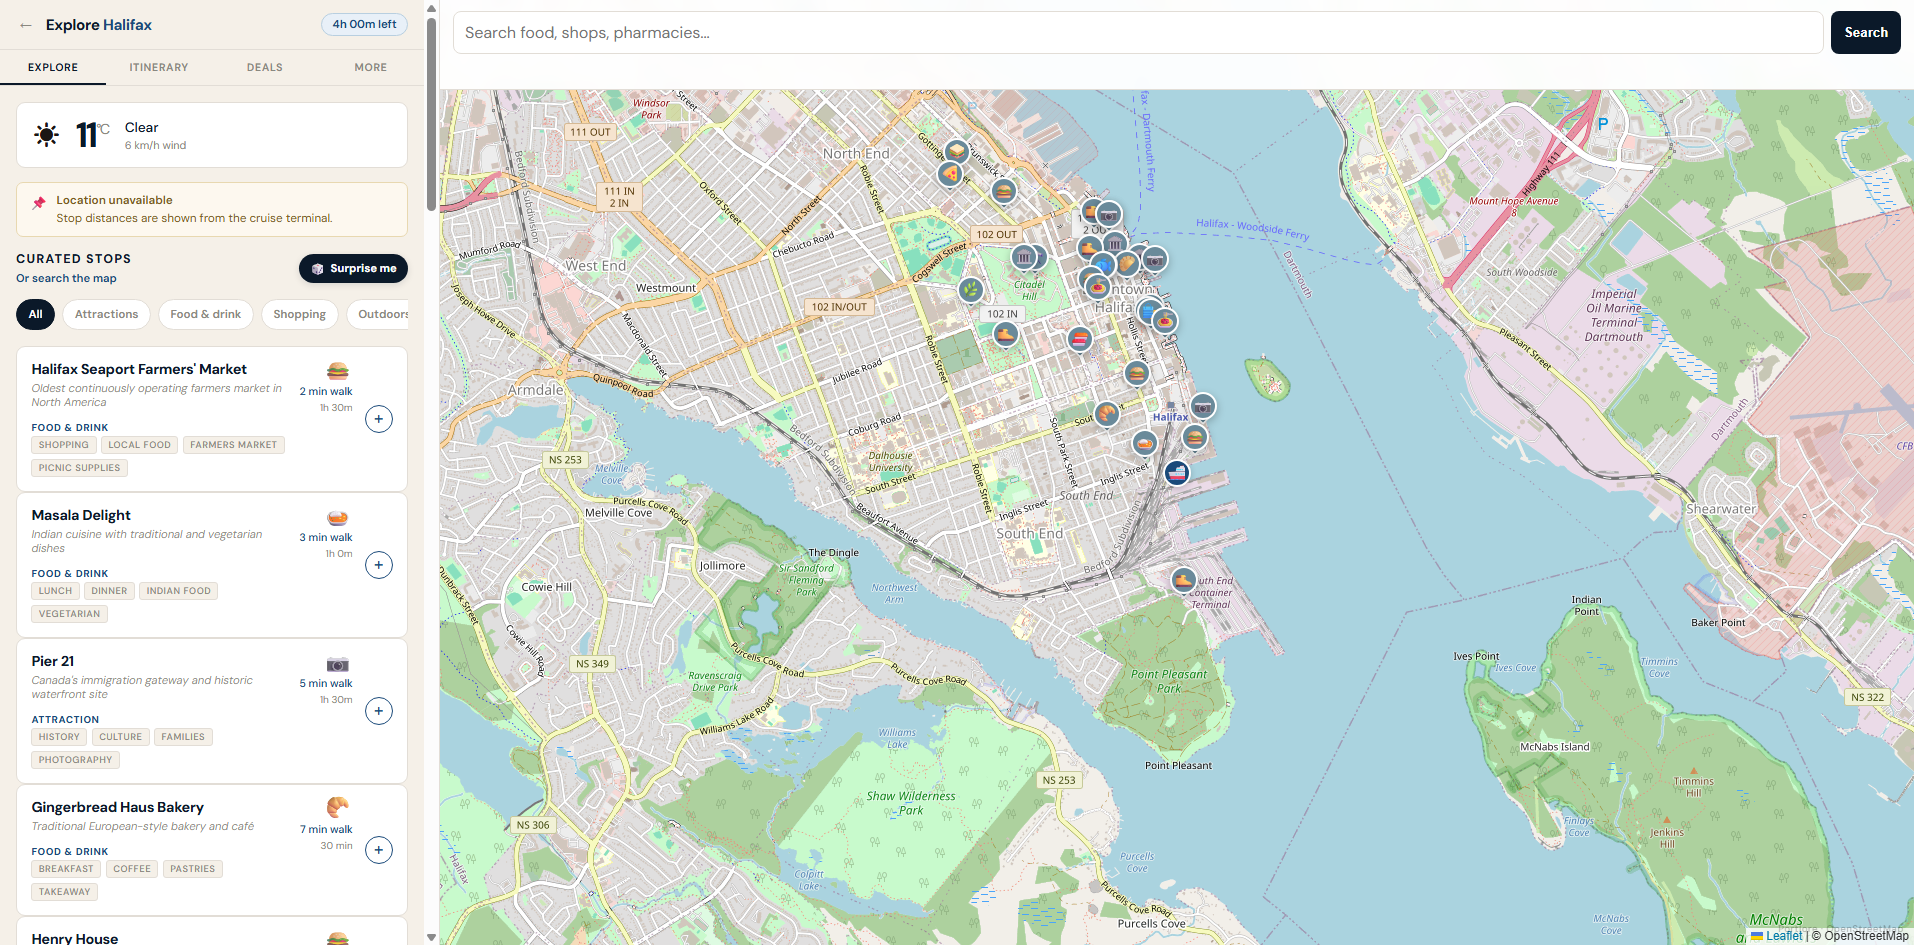
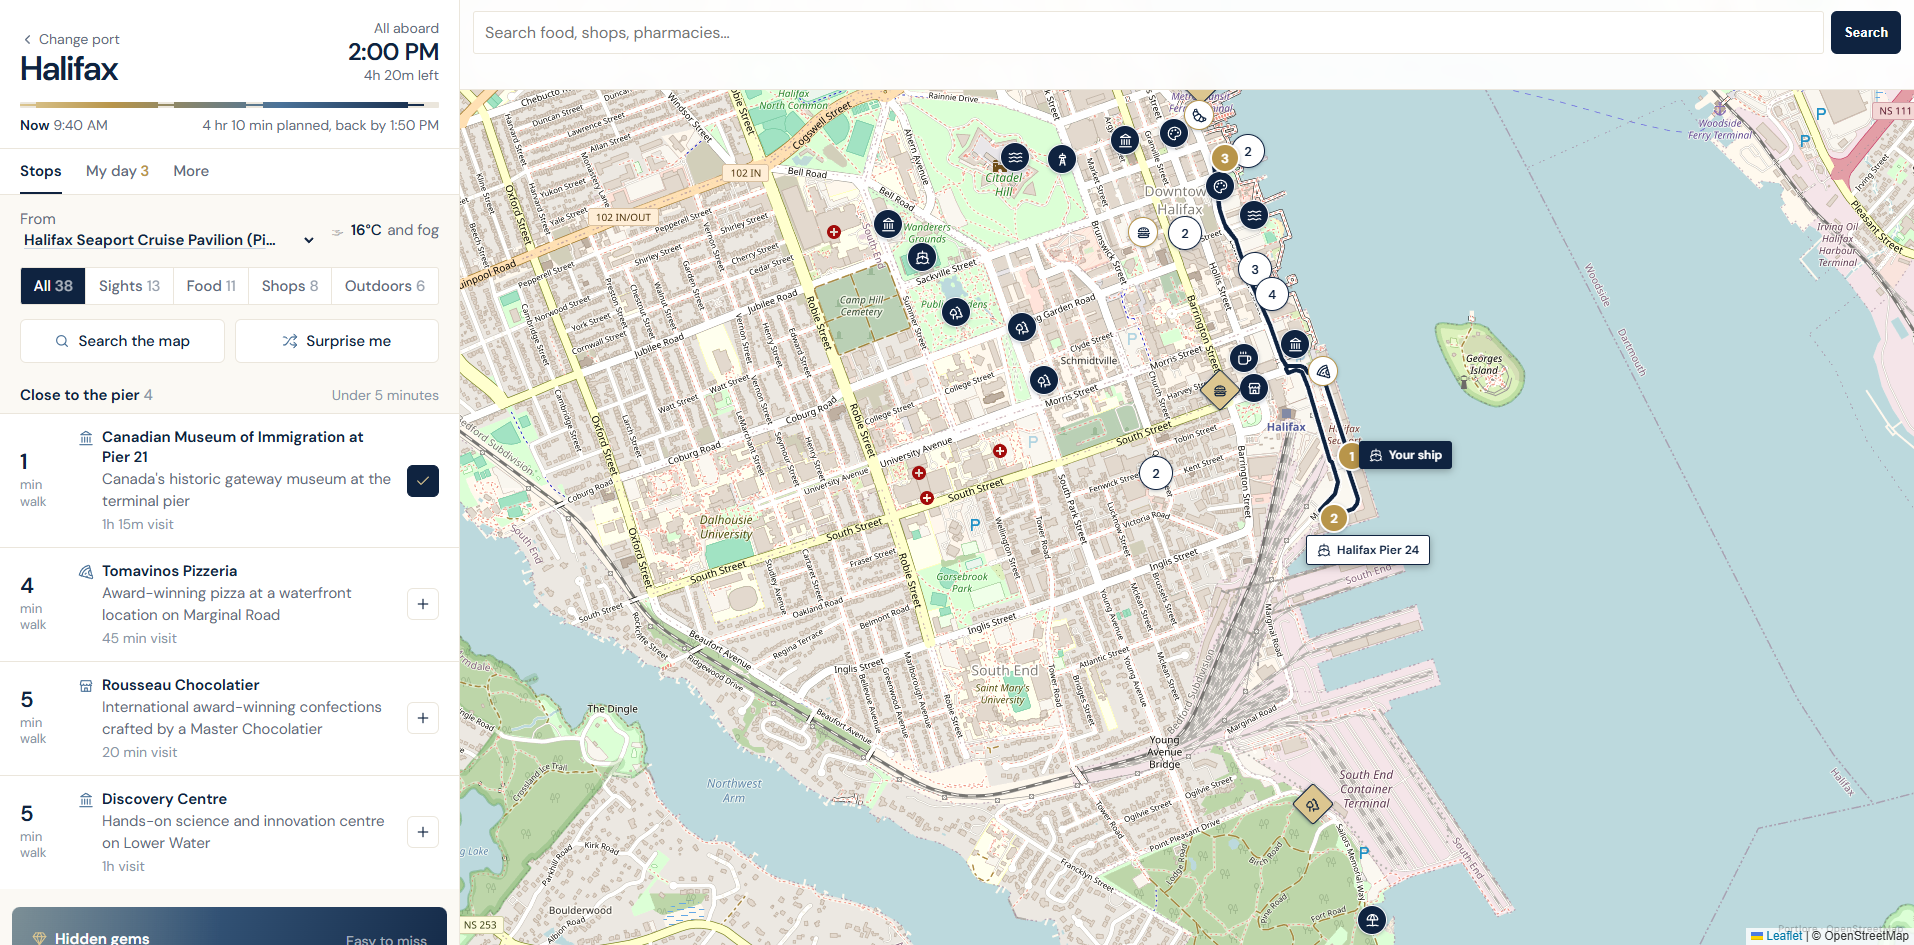
Refresh Portlore screenshots and project colours
- The Portlore galleries now show the redesigned app, plus a port page on
  desktop and mobile.
- Each project box now uses a gradient in its app's own colours.
- The Portlore stack now lists OSRM, Wikipedia, and Gemini.

diff --git a/assets/css/styles.css b/assets/css/styles.css
@@ -1,4 +1,4 @@
-*{box-sizing:border-box;margin:0;padding:0}:root{--bg:#f4f3ef;--ink:#18181b;--muted:#66666f;--line:#d8d6d1;--blue:#2459d3;--sans:Inter,ui-sans-serif,system-ui,-apple-system,BlinkMacSystemFont,"Segoe UI",sans-serif}html{scroll-behavior:smooth}body{background:var(--bg);color:var(--ink);font-family:var(--sans);-webkit-font-smoothing:antialiased}a{color:inherit;text-decoration:none}a:focus-visible,button:focus-visible{outline:2px solid var(--blue);outline-offset:3px}.site-header{align-items:center;background:rgba(244,243,239,.92);border-bottom:1px solid var(--line);display:flex;justify-content:space-between;padding:17px 40px;position:sticky;top:0;z-index:30;backdrop-filter:blur(12px)}.site-name{font-size:14px;font-weight:650}.site-header nav{display:flex;gap:22px}.site-header nav a{color:var(--muted);font-size:13px}.site-header nav a:hover{color:var(--ink)}.intro{border-bottom:1px solid var(--line);display:grid;gap:64px;grid-template-columns:minmax(0,1fr) 380px;padding:92px 40px 76px}.eyebrow{color:#939198;font-size:11px;font-weight:650;letter-spacing:.09em;margin-bottom:17px;text-transform:uppercase}.intro h1{font-size:clamp(42px,6vw,76px);font-weight:560;letter-spacing:-.045em;line-height:1.02;max-width:900px}.intro-copy{color:var(--muted);font-size:17px;line-height:1.75;margin-top:28px;max-width:720px}.intro-actions{display:flex;gap:12px;margin-top:32px}.button{border-radius:7px;font-size:14px;font-weight:600;padding:11px 18px}.button.primary{background:var(--ink);color:#fff}.button.primary:hover{opacity:.84}.button.secondary{border:1px solid var(--line);color:var(--muted)}.button.secondary:hover{border-color:#a8a6a0;color:var(--ink)}.availability-card{align-self:end;background:#171719;border-radius:14px;color:#fff;padding:28px 30px}.availability-status{align-items:center;color:#58d68d;display:flex;font-size:12px;font-weight:650;gap:9px}.availability-status span{background:#58d68d;border-radius:50%;box-shadow:0 0 0 4px rgba(88,214,141,.14);height:7px;width:7px}.availability-card h2{font-size:20px;font-weight:560;line-height:1.35;margin-top:18px}.availability-card>p{color:#a4a4ad;font-size:13px;line-height:1.65;margin-top:9px}.quick-links{border-top:1px solid #343438;display:flex;flex-direction:column;margin-top:22px;padding-top:14px}.quick-links a{align-items:center;color:#b7b7bf;display:flex;font-size:13px;justify-content:space-between;padding:6px 0}.quick-links a:hover{color:#fff}.project-intro{border-bottom:1px solid var(--line);padding:68px 40px}.project-intro h2,.bottom-grid h2{font-size:clamp(27px,4vw,42px);font-weight:550;letter-spacing:-.025em}.project-intro>p:last-child{color:var(--muted);font-size:16px;line-height:1.75;margin-top:18px;max-width:760px}.project{border-bottom:1px solid var(--line)}.project-visual{display:grid;grid-template-columns:285px minmax(0,1fr);height:430px;overflow:hidden}.trace-theme{background:#17365e}.wiki-theme{background:#181d2c}.port-theme{background:#183a2c}.project-identity{color:#fff;padding:38px 34px}.project-identity h2{font-size:35px;font-weight:550;letter-spacing:-.03em}.project-identity>p{color:rgba(255,255,255,.5);font-size:12px;line-height:1.5;margin-top:8px}.live-status{align-items:center;color:rgba(255,255,255,.57);display:flex;font-size:12px;gap:7px;margin-top:18px}.live-status i{background:#54dc8d;border-radius:50%;height:6px;width:6px}.gallery-shell{min-width:0;padding-top:30px;position:relative}.gallery{display:flex;height:372px;overflow-x:auto;scroll-snap-type:x mandatory;scrollbar-width:none}.gallery::-webkit-scrollbar{display:none}.gallery figure{background:rgba(255,255,255,.05);border-radius:9px 0 0 0;flex:0 0 100%;height:100%;overflow:auto;scroll-snap-align:start;scrollbar-width:thin}.gallery img{display:block;width:100%}.gallery-arrow{align-items:center;background:rgba(0,0,0,.43);border:1px solid rgba(255,255,255,.27);border-radius:50%;color:#fff;cursor:pointer;display:flex;font-size:25px;height:34px;justify-content:center;position:absolute;top:190px;width:34px;z-index:10}.gallery-arrow:hover{background:rgba(0,0,0,.7)}.gallery-arrow.previous{left:13px}.gallery-arrow.next{right:13px}.gallery-dots{align-items:center;display:flex;gap:7px;height:28px;justify-content:center}.gallery-dots button{background:rgba(255,255,255,.22);border:0;border-radius:50%;cursor:pointer;height:5px;width:5px}.gallery-dots button.active{background:rgba(255,255,255,.8)}.project-details{display:grid;gap:56px;grid-template-columns:minmax(0,1fr) 320px;padding:44px 40px 50px}.project-copy{max-width:900px}.project-copy p{color:#4f4f57;font-size:15px;line-height:1.82;margin-top:14px}.project-copy .project-focus{color:var(--ink);font-size:19px;font-weight:550;line-height:1.55;margin-top:0}.project-meta>div{border-top:1px solid var(--line);padding:15px 0}.project-meta span{color:#aaa8ad;display:block;font-size:10px;font-weight:650;letter-spacing:.08em;margin-bottom:7px;text-transform:uppercase}.project-meta p,.project-links a{color:var(--muted);font-size:13px;line-height:1.6}.project-links{display:flex;flex-direction:column}.project-links a{color:var(--blue);font-weight:600;margin-bottom:5px}.project-links a:hover{opacity:.7}.bottom-grid{display:grid;grid-template-columns:1fr 1fr}.bottom-grid>div{padding:60px 40px}.bottom-grid>div:first-child{border-right:1px solid var(--line)}.bottom-grid>div>p:not(.eyebrow){color:var(--muted);font-size:15px;line-height:1.8;margin-top:17px;max-width:690px}.contact-list{display:flex;flex-direction:column}.contact-list a{align-items:center;border-top:1px solid var(--line);display:flex;justify-content:space-between;padding:14px 0}.contact-list a:last-child{border-bottom:1px solid var(--line)}.contact-list strong{font-size:14px;font-weight:600}.contact-list span{color:var(--muted);font-size:13px}.contact-list a:hover span{color:var(--ink)}footer{border-top:1px solid var(--line);color:#aaa8ad;display:flex;font-size:12px;justify-content:space-between;padding:18px 40px}@media(max-width:850px){.intro{grid-template-columns:1fr}.availability-card{align-self:auto}.project-visual{grid-template-columns:190px 1fr}.project-details{grid-template-columns:1fr}.bottom-grid{grid-template-columns:1fr}.bottom-grid>div:first-child{border-bottom:1px solid var(--line);border-right:0}}@media(max-width:620px){.site-header{padding:14px 18px}.site-header nav{gap:14px}.site-header nav a:nth-child(2){display:none}.intro{gap:34px;padding:56px 18px 44px}.intro h1{font-size:43px}.intro-actions{align-items:stretch;flex-direction:column}.button{text-align:center}.project-intro{padding:46px 18px}.project-visual{display:block;height:auto}.project-identity{padding:25px 18px}.project-identity h2{font-size:29px}.gallery-shell{padding:0 0 0 18px}.gallery{height:250px}.gallery-arrow{top:106px}.project-details{gap:35px;padding:32px 18px 38px}.project-copy .project-focus{font-size:18px}.bottom-grid>div{padding:44px 18px}.contact-list a{align-items:flex-start;gap:10px}.contact-list span{text-align:right}footer{padding:16px 18px}.site-header nav a:first-child{display:none}}@media(prefers-reduced-motion:reduce){html{scroll-behavior:auto}}
+*{box-sizing:border-box;margin:0;padding:0}:root{--bg:#f4f3ef;--ink:#18181b;--muted:#66666f;--line:#d8d6d1;--blue:#2459d3;--sans:Inter,ui-sans-serif,system-ui,-apple-system,BlinkMacSystemFont,"Segoe UI",sans-serif}html{scroll-behavior:smooth}body{background:var(--bg);color:var(--ink);font-family:var(--sans);-webkit-font-smoothing:antialiased}a{color:inherit;text-decoration:none}a:focus-visible,button:focus-visible{outline:2px solid var(--blue);outline-offset:3px}.site-header{align-items:center;background:rgba(244,243,239,.92);border-bottom:1px solid var(--line);display:flex;justify-content:space-between;padding:17px 40px;position:sticky;top:0;z-index:30;backdrop-filter:blur(12px)}.site-name{font-size:14px;font-weight:650}.site-header nav{display:flex;gap:22px}.site-header nav a{color:var(--muted);font-size:13px}.site-header nav a:hover{color:var(--ink)}.intro{border-bottom:1px solid var(--line);display:grid;gap:64px;grid-template-columns:minmax(0,1fr) 380px;padding:92px 40px 76px}.eyebrow{color:#939198;font-size:11px;font-weight:650;letter-spacing:.09em;margin-bottom:17px;text-transform:uppercase}.intro h1{font-size:clamp(42px,6vw,76px);font-weight:560;letter-spacing:-.045em;line-height:1.02;max-width:900px}.intro-copy{color:var(--muted);font-size:17px;line-height:1.75;margin-top:28px;max-width:720px}.intro-actions{display:flex;gap:12px;margin-top:32px}.button{border-radius:7px;font-size:14px;font-weight:600;padding:11px 18px}.button.primary{background:var(--ink);color:#fff}.button.primary:hover{opacity:.84}.button.secondary{border:1px solid var(--line);color:var(--muted)}.button.secondary:hover{border-color:#a8a6a0;color:var(--ink)}.availability-card{align-self:end;background:#171719;border-radius:14px;color:#fff;padding:28px 30px}.availability-status{align-items:center;color:#58d68d;display:flex;font-size:12px;font-weight:650;gap:9px}.availability-status span{background:#58d68d;border-radius:50%;box-shadow:0 0 0 4px rgba(88,214,141,.14);height:7px;width:7px}.availability-card h2{font-size:20px;font-weight:560;line-height:1.35;margin-top:18px}.availability-card>p{color:#a4a4ad;font-size:13px;line-height:1.65;margin-top:9px}.quick-links{border-top:1px solid #343438;display:flex;flex-direction:column;margin-top:22px;padding-top:14px}.quick-links a{align-items:center;color:#b7b7bf;display:flex;font-size:13px;justify-content:space-between;padding:6px 0}.quick-links a:hover{color:#fff}.project-intro{border-bottom:1px solid var(--line);padding:68px 40px}.project-intro h2,.bottom-grid h2{font-size:clamp(27px,4vw,42px);font-weight:550;letter-spacing:-.025em}.project-intro>p:last-child{color:var(--muted);font-size:16px;line-height:1.75;margin-top:18px;max-width:760px}.project{border-bottom:1px solid var(--line)}.project-visual{display:grid;grid-template-columns:285px minmax(0,1fr);height:430px;overflow:hidden}.trace-theme{background:radial-gradient(80% 110% at 0% 0%,rgba(123,123,230,.38) 0%,transparent 60%),linear-gradient(110deg,#3a3a9e 0%,#121218 72%)}.wiki-theme{background:radial-gradient(80% 110% at 0% 0%,rgba(88,166,255,.3) 0%,transparent 60%),linear-gradient(110deg,#1f3a5f 0%,#0d1117 72%)}.port-theme{background:radial-gradient(80% 110% at 0% 0%,rgba(220,198,144,.3) 0%,transparent 60%),linear-gradient(110deg,#4a7299 0%,#0f2340 72%)}.project-identity{color:#fff;padding:38px 34px}.project-identity h2{font-size:35px;font-weight:550;letter-spacing:-.03em}.project-identity>p{color:rgba(255,255,255,.5);font-size:12px;line-height:1.5;margin-top:8px}.live-status{align-items:center;color:rgba(255,255,255,.57);display:flex;font-size:12px;gap:7px;margin-top:18px}.live-status i{background:#54dc8d;border-radius:50%;height:6px;width:6px}.gallery-shell{min-width:0;padding-top:30px;position:relative}.gallery{display:flex;height:372px;overflow-x:auto;scroll-snap-type:x mandatory;scrollbar-width:none}.gallery::-webkit-scrollbar{display:none}.gallery figure{background:rgba(255,255,255,.05);border-radius:9px 0 0 0;flex:0 0 100%;height:100%;overflow:auto;scroll-snap-align:start;scrollbar-width:thin}.gallery img{display:block;width:100%}.gallery-arrow{align-items:center;background:rgba(0,0,0,.43);border:1px solid rgba(255,255,255,.27);border-radius:50%;color:#fff;cursor:pointer;display:flex;font-size:25px;height:34px;justify-content:center;position:absolute;top:190px;width:34px;z-index:10}.gallery-arrow:hover{background:rgba(0,0,0,.7)}.gallery-arrow.previous{left:13px}.gallery-arrow.next{right:13px}.gallery-dots{align-items:center;display:flex;gap:7px;height:28px;justify-content:center}.gallery-dots button{background:rgba(255,255,255,.22);border:0;border-radius:50%;cursor:pointer;height:5px;width:5px}.gallery-dots button.active{background:rgba(255,255,255,.8)}.project-details{display:grid;gap:56px;grid-template-columns:minmax(0,1fr) 320px;padding:44px 40px 50px}.project-copy{max-width:900px}.project-copy p{color:#4f4f57;font-size:15px;line-height:1.82;margin-top:14px}.project-copy .project-focus{color:var(--ink);font-size:19px;font-weight:550;line-height:1.55;margin-top:0}.project-meta>div{border-top:1px solid var(--line);padding:15px 0}.project-meta span{color:#aaa8ad;display:block;font-size:10px;font-weight:650;letter-spacing:.08em;margin-bottom:7px;text-transform:uppercase}.project-meta p,.project-links a{color:var(--muted);font-size:13px;line-height:1.6}.project-links{display:flex;flex-direction:column}.project-links a{color:var(--blue);font-weight:600;margin-bottom:5px}.project-links a:hover{opacity:.7}.bottom-grid{display:grid;grid-template-columns:1fr 1fr}.bottom-grid>div{padding:60px 40px}.bottom-grid>div:first-child{border-right:1px solid var(--line)}.bottom-grid>div>p:not(.eyebrow){color:var(--muted);font-size:15px;line-height:1.8;margin-top:17px;max-width:690px}.contact-list{display:flex;flex-direction:column}.contact-list a{align-items:center;border-top:1px solid var(--line);display:flex;justify-content:space-between;padding:14px 0}.contact-list a:last-child{border-bottom:1px solid var(--line)}.contact-list strong{font-size:14px;font-weight:600}.contact-list span{color:var(--muted);font-size:13px}.contact-list a:hover span{color:var(--ink)}footer{border-top:1px solid var(--line);color:#aaa8ad;display:flex;font-size:12px;justify-content:space-between;padding:18px 40px}@media(max-width:850px){.intro{grid-template-columns:1fr}.availability-card{align-self:auto}.project-visual{grid-template-columns:190px 1fr}.project-details{grid-template-columns:1fr}.bottom-grid{grid-template-columns:1fr}.bottom-grid>div:first-child{border-bottom:1px solid var(--line);border-right:0}}@media(max-width:620px){.site-header{padding:14px 18px}.site-header nav{gap:14px}.site-header nav a:nth-child(2){display:none}.intro{gap:34px;padding:56px 18px 44px}.intro h1{font-size:43px}.intro-actions{align-items:stretch;flex-direction:column}.button{text-align:center}.project-intro{padding:46px 18px}.project-visual{display:block;height:auto}.project-identity{padding:25px 18px}.project-identity h2{font-size:29px}.gallery-shell{padding:0 0 0 18px}.gallery{height:250px}.gallery-arrow{top:106px}.project-details{gap:35px;padding:32px 18px 38px}.project-copy .project-focus{font-size:18px}.bottom-grid>div{padding:44px 18px}.contact-list a{align-items:flex-start;gap:10px}.contact-list span{text-align:right}footer{padding:16px 18px}.site-header nav a:first-child{display:none}}@media(prefers-reduced-motion:reduce){html{scroll-behavior:auto}}
 
 .gallery-arrow {
   width: 32px;
@@ -230,7 +230,7 @@
 .portlore-tab[aria-selected="true"] {
   background: #fff;
   border-color: #fff;
-  color: #183a2c;
+  color: #0f2340;
 }
 
 .portlore-desktop-shell::before,
@@ -1696,7 +1696,10 @@ body.lightbox-open {
 
 /* Shared desktop/mobile project galleries */
 .portfolio-layout .misc-theme {
-  background: #315652;
+  background:
+    radial-gradient(80% 110% at 0% 0%, rgba(201,162,74,.34) 0%, transparent 60%),
+    radial-gradient(60% 90% at 100% 100%, rgba(123,95,163,.28) 0%, transparent 65%),
+    linear-gradient(110deg, #5a4633 0%, #2a2119 72%);
 }
 
 .portfolio-layout #miscellary .project-visual {
@@ -1776,7 +1779,9 @@ body.lightbox-open {
 }
 
 .seed-theme {
-  background: #1a221d;
+  background:
+    radial-gradient(80% 110% at 0% 0%, rgba(231,220,192,.24) 0%, transparent 60%),
+    linear-gradient(110deg, #3d5048 0%, #161c1b 72%);
 }
 
 @media (min-width: 791px) {

diff --git a/index.html b/index.html
@@ -243,10 +243,11 @@
 <div class="gallery-shell portlore-desktop-shell">
 <button aria-label="Previous Portlore desktop screenshot" class="gallery-arrow previous" data-direction="-1" data-gallery-step="portlore-desktop" type="button"><svg aria-hidden="true" fill="none" height="16" viewbox="0 0 10 16" width="10" xmlns="http://www.w3.org/2000/svg"><path d="M8 2L2 8L8 14" stroke="white" stroke-linecap="round" stroke-linejoin="round" stroke-width="1.5"></path></svg></button>
 <div class="gallery" id="gallery-portlore-desktop">
-<figure><img alt="Portlore desktop Halifax trip planner" src="assets/images/portlore/desktop-01-landing.png"/></figure>
-<figure><img alt="Portlore desktop Halifax guide and map" src="assets/images/portlore/desktop-02-guide.png"/></figure>
+<figure><img alt="Portlore desktop Halifax welcome screen with the all-aboard time" src="assets/images/portlore/desktop-01-landing.png"/></figure>
+<figure><img alt="Portlore desktop Halifax stops by walking time beside the route map" src="assets/images/portlore/desktop-02-guide.png"/></figure>
 <figure><img alt="Portlore desktop stop details over the guide map" src="assets/images/portlore/desktop-03-stop-detail.png"/></figure>
-<figure><img alt="Portlore desktop two-stop itinerary" src="assets/images/portlore/desktop-04-itinerary.png"/></figure>
+<figure><img alt="Portlore desktop day timeline with walking legs" src="assets/images/portlore/desktop-04-itinerary.png"/></figure>
+<figure><img alt="Portlore desktop Halifax port page" src="assets/images/portlore/desktop-05-port-page.png"/></figure>
 </div>
 <button aria-label="Next Portlore desktop screenshot" class="gallery-arrow next" data-direction="1" data-gallery-step="portlore-desktop" type="button"><svg aria-hidden="true" fill="none" height="16" viewbox="0 0 10 16" width="10" xmlns="http://www.w3.org/2000/svg"><path d="M2 2L8 8L2 14" stroke="white" stroke-linecap="round" stroke-linejoin="round" stroke-width="1.5"></path></svg></button>
 <div class="gallery-dots" data-gallery-dots="portlore-desktop"></div>
@@ -259,11 +260,12 @@
 <button aria-label="Next Portlore mobile screenshot" class="gallery-arrow next" data-mobile-step="1" type="button"><svg aria-hidden="true" fill="none" height="16" viewbox="0 0 10 16" width="10" xmlns="http://www.w3.org/2000/svg"><path d="M2 2L8 8L2 14" stroke="white" stroke-linecap="round" stroke-linejoin="round" stroke-width="1.5"></path></svg></button>
 <div class="gallery-dots"></div>
 <div class="mobile-carousel-source" hidden>
-<img alt="Portlore mobile Halifax trip planner" src="assets/images/portlore/mobile-01-landing.png"/>
-<img alt="Portlore mobile Halifax guide" src="assets/images/portlore/mobile-02-guide.png"/>
+<img alt="Portlore mobile Halifax welcome screen" src="assets/images/portlore/mobile-01-landing.png"/>
+<img alt="Portlore mobile Halifax stops by walking time" src="assets/images/portlore/mobile-02-guide.png"/>
 <img alt="Portlore mobile stop details" src="assets/images/portlore/mobile-03-stop-detail.png"/>
-<img alt="Portlore mobile map" src="assets/images/portlore/mobile-04-map.png"/>
-<img alt="Portlore mobile itinerary" src="assets/images/portlore/mobile-05-itinerary.png"/>
+<img alt="Portlore mobile map with the planned walking route" src="assets/images/portlore/mobile-04-map.png"/>
+<img alt="Portlore mobile day timeline" src="assets/images/portlore/mobile-05-itinerary.png"/>
+<img alt="Portlore mobile Halifax port page" src="assets/images/portlore/mobile-06-port-page.png"/>
 </div>
 </div>
 </div>
@@ -277,7 +279,7 @@
 </div>
 <aside class="project-meta">
 <div><span>Built around</span><p>Finding and curating useful places around cruise ports, then turning them into practical day plans.</p></div>
-<div><span>Stack</span><p>JavaScript, Node.js, Express, OpenStreetMap, Google Places and Routes, Anthropic</p></div>
+<div><span>Stack</span><p>JavaScript, Node.js, Express, OpenStreetMap, OSRM, Wikipedia, Google Places, Gemini</p></div>
 <div class="project-links"><span>Links</span><a href="https://portlore.com" rel="noopener" target="_blank">Explore Portlore ↗</a><a href="https://github.com/Nic-Richard/portlore" rel="noopener" target="_blank">GitHub ↗</a></div>
 </aside>
 </div>
